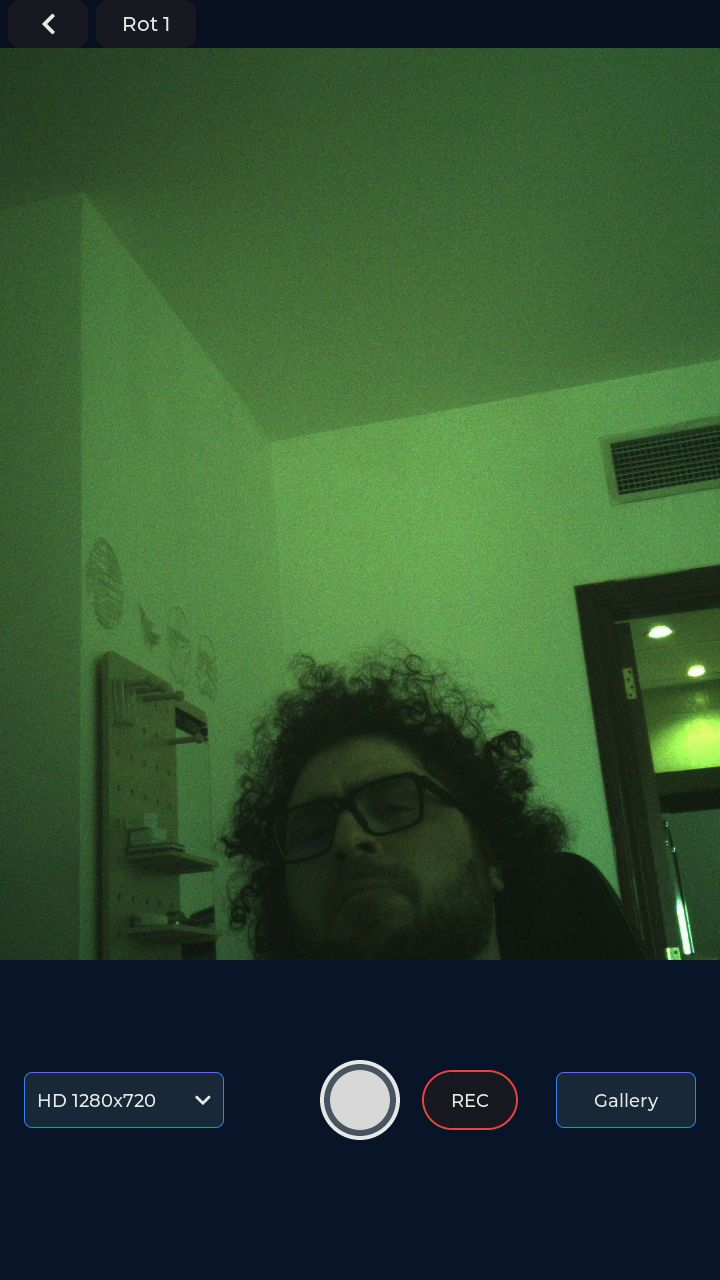
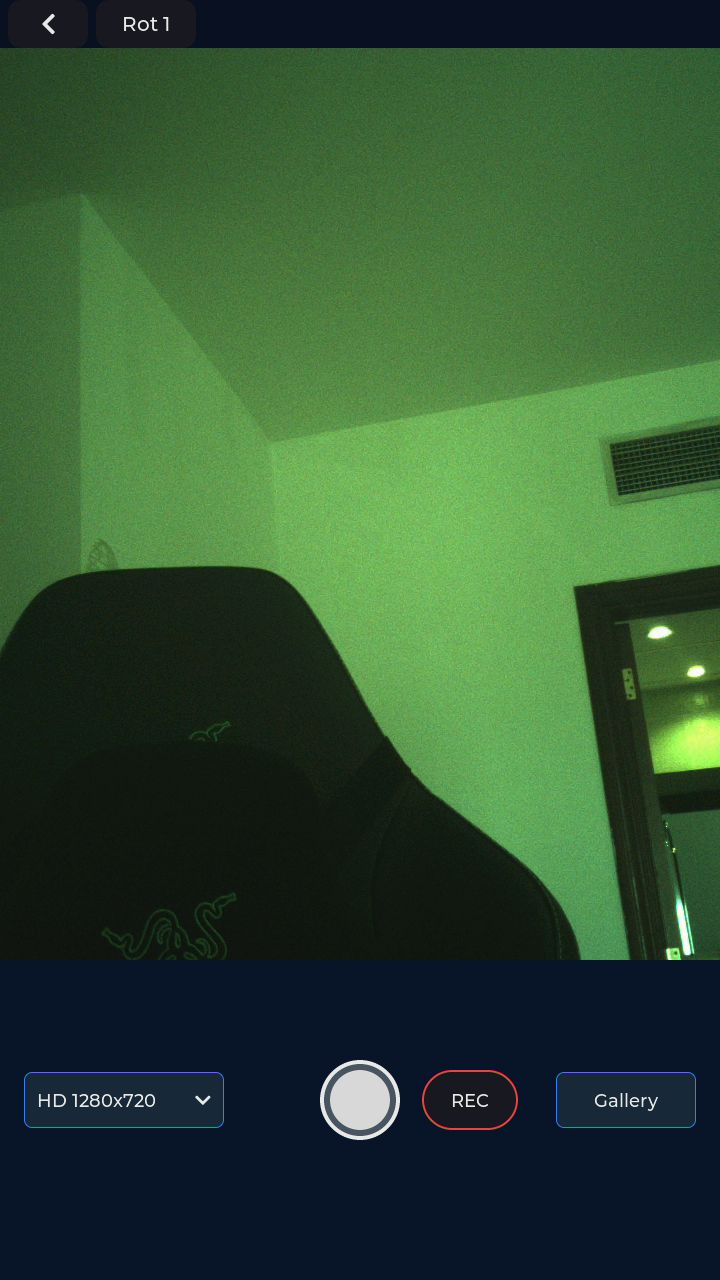
docs: scrub face from camera screenshot + add 3 more screens (mode-sheet, voice-thinking, files)
PR #192's camera.jpg had the user's face in the live viewfinder.
Captured a fresh one (Tab5 aimed away from anyone — shows just the
office chair) and added three more screens to round out coverage.

Replaced
--------
- camera.jpg — was: user's face in live preview.
                now: same camera UI, viewfinder showing an empty
                room with a chair.  No PII.

Added
-----
- mode-sheet.jpg — the three-dial mode picker (Intelligence /
  Voice / Autonomy) with preset shortcuts at the bottom.  Captured
  via /touch long_press on the mode chip at (360, 706).
- voice-thinking.jpg — the voice overlay in PROCESSING state with
  the breathing orb + "Thinking." caption.  Captured by tapping
  the orb + screenshot mid-state-transition.
- files.jpg — SD card file browser.

getting-started-user.md updated to reference all 8 screens with
descriptive alt text and one-paragraph captions explaining what
each shows.  The "tour of the screens" section now covers home,
chat, camera, notes, settings, files, voice overlay, and mode
picker — i.e. every screen a user will encounter.

Verified: all 8 images have unique md5 hashes; no duplicates.
None contain identifiable people, audio, video, or PII beyond the
private-RFC1918 LAN IP visible in settings.jpg (which is
informational and expected).

No code changes.

diff --git a/docs/getting-started-user.md b/docs/getting-started-user.md
@@ -276,7 +276,7 @@ If none of this works, **file an issue** with:
 
 ## A tour of the screens
 
-There are five main screens you'll bounce between. Swipe up from the bottom of any screen to bring up the nav sheet that switches between them.
+There are six main screens plus two important overlays.  Swipe up from the bottom of any screen to bring up the nav sheet that switches between them.
 
 ### Home
 
@@ -313,10 +313,34 @@ Voice notes — long-press the orb on the home screen to start dictation. After 
 ### Settings
 
 <p align="center">
-  <img src="images/settings.jpg" alt="Tab5 settings screen" width="280"/>
+  <img src="images/settings.jpg" alt="Tab5 settings screen with voice mode picker, sliders for daily cap / brightness / volume, quiet hours, network info" width="280"/>
 </p>
 
-Volume, brightness, mic mute, voice mode, daily spend cap, Wi-Fi info, OTA updates, "About". The three dials at the bottom (intelligence / voice / autonomy) are a more granular way to control what mode you're in than the simple Local/Hybrid/Cloud chip.
+Voice mode picker (Local / Hybrid / Cloud / TinkerClaw with the active backend named under each), mic mute, quiet hours start/end sliders, daily spend cap, brightness/volume, auto-rotate toggle, camera rotation dropdown, network status, and storage info further down. This is the one screen where you change anything persistent.
+
+### Files
+
+<p align="center">
+  <img src="images/files.jpg" alt="Tab5 SD card file browser" width="280"/>
+</p>
+
+Browse the SD card. Photos saved from the camera screen (`IMG_NNNN.jpg`), video recordings (`VID_NNNN.MJP`), and offline-queued voice recordings show up here. Tap a JPEG to preview; tap a WAV to play.
+
+### Voice overlay (the orb in action)
+
+<p align="center">
+  <img src="images/voice-thinking.jpg" alt="Tab5 voice overlay — golden orb with breathing rings, 'Thinking.' caption" width="280"/>
+</p>
+
+When you tap the home-screen orb to talk, this overlay takes over. The orb breathes (animated pulsing rings) and the caption updates as the AI moves through states: *Listening* → *Thinking* (shown above) → *Speaking*. Tap the X in the corner to cancel mid-thought; the next tap on the orb starts a fresh turn.
+
+### Mode picker sheet
+
+<p align="center">
+  <img src="images/mode-sheet.jpg" alt="Tab5 mode picker — three dials (Intelligence / Voice / Autonomy), preset shortcuts, resolved mode card" width="280"/>
+</p>
+
+Long-press the mode pill on the home screen to open this. Three orthogonal dials — **Intelligence** (Fast / Balanced / Smart), **Voice** (Local / Neutral / Studio), **Autonomy** (Ask / Agent) — let you fine-tune what mode you're in beyond the simple Local/Hybrid/Cloud picker. The preset row at the bottom is a one-tap shortcut for the most common combos. The "Resolves to" card at the bottom shows what your dial settings translate to (here: *Hybrid · Studio voice · Local brain · ~$0.02 per turn*).
 
 ---
 
